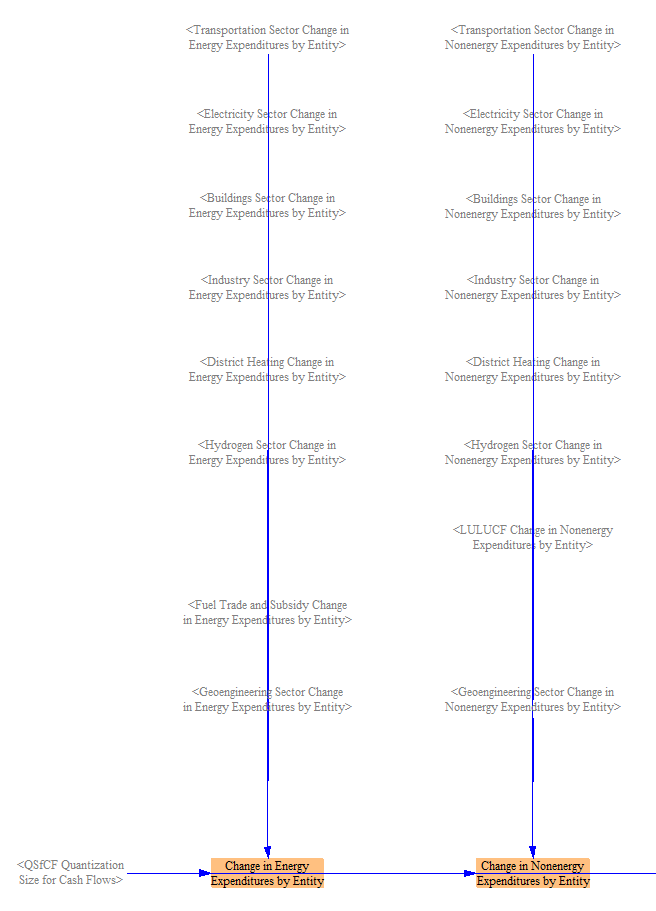
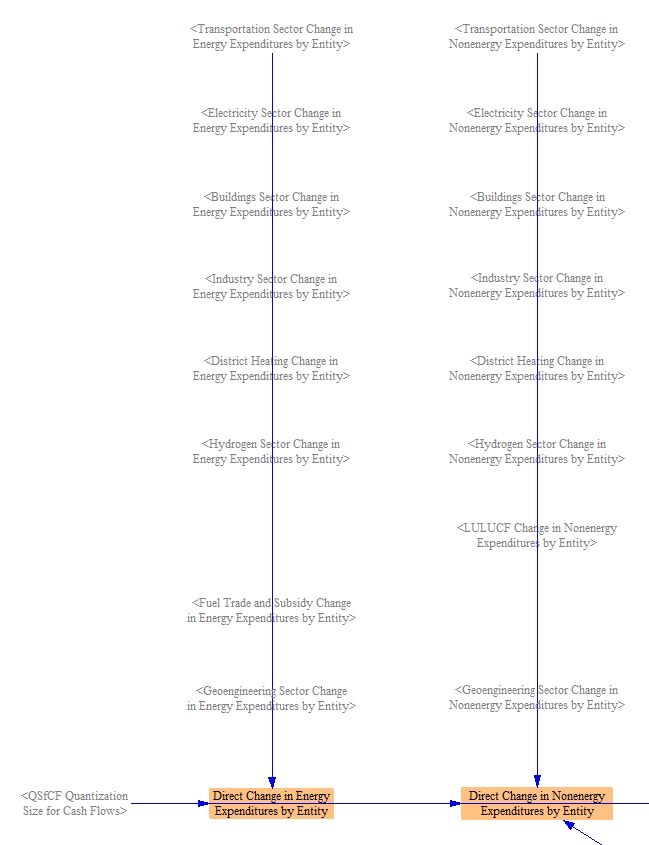
Update Cross-Sector Totals doc page yet again to latest 3.0.0

Changed region(s): [[0.678, 0.0308, 0.9553, 0.9846], [0.2773, 0.0308, 0.5547, 0.9846], [0.0308, 0.9231, 0.2157, 0.9846]]

diff --git a/docs/cross-sector-totals.md b/docs/cross-sector-totals.md
@@ -57,57 +57,31 @@ We then take the difference between the BAU and policy cases to find the change 
 
 The model tracks changes in cash flow for nine main actors (sometimes called "cash flow entities"): government, non-energy industries, labor and consumers, foreign entities, and five types of energy suppliers (electricity, coal, natural gas and petroleum, biomass and biofuel, and other).  Additionally, the model tracks cash flow impacts by ISIC code, which breaks apart the non-energy industries cash flow entity into 18 ISIC codes and also tracks an additional 18 ISIC codes, for a total of 36 ISIC codes.  The break-out of five types of energy supplier within the EPS is more detailed than the available data by ISIC code (which, for example, groups all fossil fuel extraction businesses together, not distingusihing coal from oil and gas), so we retain the five energy suppliers within the "cash flow entities" subscript, instead of simply relying entirely on ISIC codes to track cash flows for all industries.  The detailed break-outs by ISIC code and by cash flow entity allows the EPS to produce outputs that show how policy packages affect specific segments of the economy and society.
 
-### Changes in Non-Energy Industry Cash Flows by ISIC Code
+## Changes in Non-Energy Industry Cash Flows by ISIC Code
 
 As the cash flow entities subscript is already sufficient to track the direct financial impacts of policies for all entities except for the detailed break-out of non-energy industries, at this stage, we primarily use ISIC codes to subdivide the cash flows assigned to the "non-energy industries" cash flow entity.  (Later, in the [input-output model](io-model.html), we will use some of the properties of the energy industry ISIC codes to estimate indirect impacts of changes in energy industry output.)
 
-The first step is to total the change in non-energy industry expenditures by ISIC code.  This was calculated in varous sectors, and it is relatively straightforward, because (unlike changes in revenues), we don't need to separate out a share going to labor or tax payments - we only care about the total amount spent and the ISIC code doing the spending.  
+The first step is to total the change in non-energy industry expenditures by ISIC code.  Non-energy industry expenditures were already assigned to ISIC codes within each sector, so it is straightforward to total them here.
 
 ![summing non-energy expenditures by ISIC code](cross-sector-totals-NonEnerExpendByISIC.png)
 
-Tracking the change in revenues by ISIC code and by cash flow entity is more complicated.  Revenue assignments to specific ISIC codes were already made in various sectors (transportation, buildings, etc.), but labor and tax shares of the assignments to non-energy industries were not separated out within the sectors.  We must do that here, in a process called "partitioning."  First, we total the changes in revenue by ISIC code prior to partitioning.  (We also allocate any change in interest paid on the national debt to nonenergy industries at this stage - for more on this, see the documentation page on the [input-output model](io-model.html).)
+We also track the change in revenues by ISIC code and by cash flow entity.  Revenue assignments to specific ISIC codes were already made in various sectors (transportation, buildings, etc.), but labor and tax shares of the assignments to non-energy industries were not separated out within the sectors.  We will account for the effects of changes in output by ISIC code on government and household spending the [input-output model](io-model.html) sheet, using variables that are part of a feedback loop from the IO model outputs.  Therefore, we do not need to separate out labor and tax shares of industry revenue upstream of the IO model.  (The IO model expects the total change in output, which is based on revenue, including revenue that ultimately is paid to workers or paid as taxes.  Worker salaries and taxes paid still contribute to that industry's value added and hence to its economic output.)  The share of each ISIC code supplied by foreign entities is also separated out inside the IO model.
 
-![summing non-energy revenues by ISIC code before partitioning](cross-sector-totals-NonEnerRevByISICBfrPttn.png)
+We also allocate any change in interest paid on the national debt to nonenergy industries at this stage - for more on this, see the documentation page on the [input-output model](io-model.html).
 
-Next, we separate out the shares of the non-energy ISIC codes' revenue that goes to government, to labor, and to foreign entities.  The changes in revenues coming out of the various sectors assigned to non-energy ISIC codes reflect what is paid for each sort of thing is being bought (such as machinery, steel, etc.), not where the product comes from (within or outside the model boundaries - e.g. domestic or foreign) or how much of the money goes toward taxes and toward labor.
+![summing non-energy revenues by ISIC code before partitioning](cross-sector-totals-NonEnerRevByISIC.png)
 
-To calculate the share going to foreign entities, we use the domestic content share of consumption by ISIC code, which is taken in as input data and reflects the share of each good (or the parts of each good, for goods composed of a mixture of domestic and imported parts) produced domestically.  We make no distinction between payments to foreign companies, foreign labor, and foreign taxes - they all are lumped into the "foreign entities" bucket.
-
-![foreign share of non-energy industry revenue](cross-sector-totals-NonEnerRevForeignShare.png)
-
-To calculate the share going to labor, we use input data that specifies the share of the value added by each industry that goes to worker compensation.  Value added reflects the increase in output and revenue of one industry relative to the cost of the inputs it purchases, such as a company that buys steel and manufactures machinery.  We need to take the labor share of value added, not the labor share of total output, because the labor share of producing the input materials, such as steel, is already accounted for when calculating the revenue impacts on the steel industry.  Thus, each industry makes a non-overlapping (non-double-counted) contribution to the change in revenue going to labor.  We subtract out personal/household income taxes on the change in payments going to labor at the marginal worker tax rate, because personal income taxes are not included in the I/O input data on taxes by ISIC code.
-
-To calculate the share going to government, we use input data on the tax on production as a share of value added by ISIC code.  These tax rates don't include changes in tax revenues from personal income taxes of the workers in each industry, so we add these separately, taken out of the labor share, as noted above.
-
-![labor and government shares of non-energy industry revenue](cross-sector-totals-NonEnerRevLborGovShare.png)
-
-We subtract out the foreign, labor, and government shares of the change in non-energy industry revenue to find the total change in non-energy industry revenue that actually applies to each domestic industry.
-
-![industry share of non-energy industry revenue](cross-sector-totals-NonEnerRevIndstShare.png)
-
-Finally, we add the direct (first-order) changes in revenue and changes in expenses to obtain the direct changes in cash flow for each non-energy industry, broken out by ISIC code.  In other words, this is the direct impact of the user's selected policies on the cash available to each industry segment.  This is one of our important inputs to the I/O model.
+We add the direct (first-order) changes in revenue and changes in expenses to obtain the direct changes in cash flow for each non-energy industry, broken out by ISIC code.  In other words, this is the direct impact of the user's selected policies on the cash available to each industry segment.  We do not actually use this variable within the IO model (because the IO model requires the change in output, not the change in cash flow or net income, for each industry), but we calculate it here for completeness and for use in the [debugging assistance](debugging-assistance.html) sheet.
 
 ![totalling change in non-energy industries' cash flow by ISIC code](cross-sector-totals-NonEnerCashFlowTot.png)
 
-### Changes in Energy Industry Cash Flows
+## Summing Changes in Expenditures and Revenues
 
-We must also partition and sum changes in energy industry cash flows, but the process is somewhat simpler.  This is because we handle taxes on energy in each sector demanding that energy, and we separate out the foreign entities' share using calculations in the fuel imports and fuel exports section of the [Fuels sheet](fuels.html), a more complicated and accurate methodology than simply partitioning a foreign share by ISIC code.  The only partitioning we need to do for the energy industries on the Cross-Sector Totals sheet is to separate out the payments going to labor, and the income taxes on those labor payments, which go to government.
-
-![labor share and income tax share of energy industry revenue](cross-sector-totals-EnerRevenuePartition.png)
-
-### Summing partitioning effects
-
-In order to produce totals cleanly later in this sheet, we prepare by consolidating all the changes in revenue due to partitioning (as described in the sections above) into a single variable, subscripted by cash flow entity.  The effects on the non-energy industries cash flow entity are obtained by summing across ISIC codes, since our calculations above were broken out by ISIC code, and we must keep the "non-energy industries" cash flow entity in sync.  Other partitioning effects are already assigned to one of the nine cash flow entities, so summing them is straightforward.
-
-![summing partitioning effects](cross-sector-totals-SumPartitionEffects.png)
-
-### Summing Changes in Expenses and Revenues
-
-The next step is to sum policy-driven changes in expenditures and revenues for each cash flow entity across all sectors and other model components that cause direct changes in expenditures and revenues.  Expenditures are divided into energy expenditures and non-energy expenditures in each model sector, so we total them separately here, so we can represent changes in these types of expenditures as separate lines on output graphs.  We apply a Quantization Size for Cash Flows to dampen rounding error.
+The next step is to sum direct, policy-driven changes in expenditures and revenues for each cash flow entity across all sectors and other model components that cause direct changes in expenditures and revenues.  Expenditures are divided into energy expenditures and non-energy expenditures in each model sector, so we total them separately here, so we can represent changes in these types of expenditures as separate lines on output graphs.  We apply a Quantization Size for Cash Flows to dampen rounding error.
 
 ![summing changes in energy and non-energy expenditures](cross-sector-totals-SumCngExpenditures.png)
 
-Similarly, we sum changes in revenues for each cash flow entity across all sectors.  This includes the effect of the partitioning we completed in the steps above (in the gray box in the following screenshot).  The sum of all cash flow changes within the gray box (i.e. across the nine cash flow entities) is zero, because partitioning doesn't alter the total change in revenue - it simply reallocates some to labor, to government, and to foreign entities.
+Similarly, we sum changes in revenues for each cash flow entity across all sectors.
 
 ![summing changes in revenues](cross-sector-totals-SumCngRevenues.png)
 
